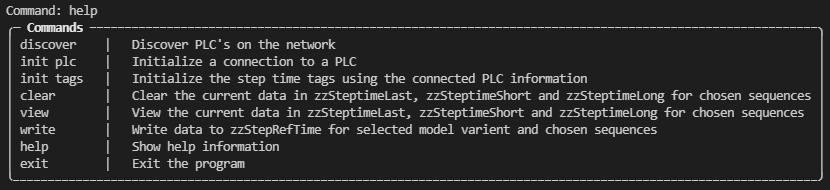
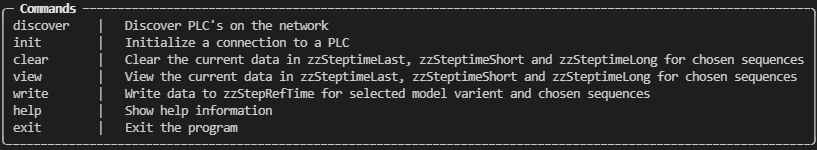
Major changes most notably combining init plc and init tags into just init

Changed region(s): [[0.0, 0.0267, 1.0, 0.9867]]

diff --git a/stepTimeDistributor.py b/stepTimeDistributor.py
@@ -14,41 +14,14 @@ from rich.panel import Panel
 #------------------------------------------------------------------------#
 
 sequences, seqTags = {}, {}
-plcInitOK = False
 inputCommands = {
     "discover": "Discover PLC's on the network",
-    "init plc": "Initialize a connection to a PLC", 
-    "init tags": "Initialize the step time tags using the connected PLC information",
+    "init": "Initialize a connection to a PLC", 
     "clear": "Clear the current data in zzSteptimeLast, zzSteptimeShort and zzSteptimeLong for chosen sequences",
     "view": "View the current data in zzSteptimeLast, zzSteptimeShort and zzSteptimeLong for chosen sequences",
     "write": "Write data to zzStepRefTime for selected model varient and chosen sequences",
     "help": "Show help information", 
     "exit": "Exit the program"}
-ipRegex = re.compile(r'''
-    (\d{1,3}\.){3}\d{1,3}$ # IPv4
-    | ([0-9abcdef]{4}:){7}[0-9abcdef]{4}$ # IPv6
-    | ^cancel$ # Cancel the operation
-    ''', re.VERBOSE|re.I)
-slotRegex = re.compile(r'''
-    \d+$ # Any digit
-    | ^cancel$ # Cancel the operation
-    ''', re.VERBOSE|re.I)
-typeRegex = re.compile(r'''
-	\d{1,2}$ # 1 or 2 digits only
-	| ^cancel$ # Cancel the operation
-	''', re.VERBOSE|re.I)
-writeRegex = re.compile(r'''
-    ^last$ # Write zzSteptimeLast values
-    | ^long$ # Write zzSteptimeLong values
-    | ^short$ # Write zzSteptimeShort values
-    | ^cancel$ # Cancel operation
-    ''', re.VERBOSE|re.I)
-applyRegex = re.compile(r'''
-    ^none$ # User doesn't want to apply any addition time
-    | ^percentage$ # Apply a percentage of the time, variable time
-    | ^time$ # Apply a fixed time 
-    | ^cancel$ # Cancel operation
-    ''', re.VERBOSE|re.I)
 
 #------------------------------------------------------------------------#
 
@@ -75,32 +48,75 @@ def extractSequences(seqDict, userInput): # Function to extract sequence numbers
     return seqs
 
 def discoverPLCs(): # Function to discover any PLC on the network
-    plcs = []
+    ips, slots, progName = [], [], []
     try:
         discovery = CIPDriver.discover() # Return list of all CIP devices on the network
         for device in discovery: # Go through discovery list and append any PLC#'s to a list
             if device['product_type'] == "Programmable Logic Controller":
-                plcs.append(device['ip_address'])        
-        if len(plcs) > 0: # Print the discovered PLC's, if there are any
-            plcs.sort() # Sort the IP address in ascending order
+                ips.append(device['ip_address'])        
+        if len(ips) > 0: # Print the discovered PLC's, if there are any
+            ips.sort() # Sort the IP address in ascending order
             table = Table(box=box.ROUNDED) # Create table 
-            table.add_column('No.', justify='center') # Add column
+            table.add_column('#', justify='center') # Add column
             table.add_column('Device Type', justify='center') # Add column
             table.add_column('IP Address', justify='center') # Add column
-            for i, plc in enumerate(plcs): # Add row for each PLC discovered
-                table.add_row(str(i+1), 'Programmable Logic Controller', plc)
+            table.add_column('Slot #', justify='center') # Add column
+            table.add_column('Program Name', justify='center') # Add column
+            for i, ip in enumerate(ips): # Add row for each PLC discovered
+                slots.append('Unknown')
+                progName.append('Unknown')
+                for slot in range(1, 18):
+                    try:
+                        plc = LogixDriver(f'{plc}/{str(slot)}', init_tags=False)
+                        if plc.open():
+                            slots[i] = slot
+                            progName[i] = plc.get_plc_name()
+                            plc.close()
+                            break
+                    except:
+                        continue
+                table.add_row(str(i+1), 'Programmable Logic Controller', ip, str(slots[i]), progName[i])
             print(table)
         else:
             print("No PLC's discovered on the network")
     except Exception:
         traceback.print_exc()
 
-def initPLC(ip, slot): # Funtion to initialize a connection to a PLC and retrive data from it
-    seqs = {}
-    initOK = False
+def init(): # Funtion to initialize a connection to a PLC and retrive data from it
+    seqs, tags = {}, {}
+    ipOK, slotOK = False, False
+    ipRegex = re.compile(r'''
+    (\d{1,3}\.){3}\d{1,3}$ # IPv4
+    | ([0-9abcdef]{4}:){7}[0-9abcdef]{4}$ # IPv6
+    | ^cancel$ # Cancel the operation
+    ''', re.VERBOSE|re.I)
+    slotRegex = re.compile(r'''
+    \d+$ # Any digit
+    | ^cancel$ # Cancel the operation
+    ''', re.VERBOSE|re.I)
+    while ipOK == False:
+        ip = re.match(ipRegex, input("PLC IP Address: ").strip()) # Request the PLC IP address and check it is the correct format
+        if ip: # IP address format OK
+            if ip.group().lower() == 'cancel':
+                print('Operation cancelled\n')
+                return None, seqs, tags
+            else:
+                ipOK = True # IP Address OK, allow user to enter slot
+        else: # IP address format not OK
+            print('Format of IP address was incorrect')
+    while slotOK == False:
+        slot = re.match(slotRegex, input("Rack slot: ").strip()) # Request the rack slot number
+        if slot: # Slot format OK
+            if slot.group().lower() == 'cancel':
+                print('Operation cancelled\n')
+                return None, seqs, tags
+            else:
+                slotOK = True
+        else: # Slot format not OK
+            print('Format of slot was incorrect')
     try:
-        print(f"Initializing connection to {ip}/{str(slot)}")
-        plc = LogixDriver(f"{ip}/{str(slot)}", init_tags=True, init_program_tags=True) # Set up the LogixDriver for the stated PLC. This is returned to be used within other functions
+        print(f"Initializing connection to {ip.group()}/{str(slot.group())}")
+        plc = LogixDriver(f"{ip.group()}/{str(slot.group())}", init_tags=True, init_program_tags=True) # Set up the LogixDriver for the stated PLC. This is returned to be used within other functions
         if plc.open(): # Open the connection to the PLC and read data from it
             print("Connection to PLC established")
             plcInfo = plc.info # Write the PLC info to a variable
@@ -112,46 +128,31 @@ def initPLC(ip, slot): # Funtion to initialize a connection to a PLC and retrive
                 if mo1 != None:
                     mo2 = re.search(r'\d\d', mo1.group()) # Search for the digits in the matched object and use them as keys in the sequences dictionary
                     seqs.setdefault(mo2.group(), prog) # Assign the key (sequence number) and value (program name) to the sequences dictionary
+            seqs = keySortDict(seqs) # Sort the sequence dictionary based on sequence number (keys)
             plcInfo.update({'revision':f"Major : {str(plcInfo['revision']['major'])} / Minor : {str(plcInfo['revision']['minor'])}"})
             table = Table(box=box.ROUNDED) # Create a table
             table.add_column('PLC Information', justify='left') # Add column
             table.add_column('Sequences', justify='left') # Add column
             textInfo = '\n'.join(f"{k.capitalize().replace('_', ' ').ljust(15)} |   {v}" for k, v in plcInfo.items()) # Combine the PLC information into one string
-            textSeq = '\n'.join(f"{k} - {v}" for k, v in keySortDict(seqs).items()) # Combine the PLC sequences into one string
+            textSeq = '\n'.join(f"{k} - {v}" for k, v in seqs.items()) # Combine the PLC sequences into one string
             table.add_row(textInfo, textSeq) # Add row
             print(table)
+            for k, v in seqs.items(): # Loop for each sequence selected by the user
+                maxStep = plc.read(f"zzSeq[{k}].MaxStepNo").value
+                tags.setdefault(k, 
+                    [f"zzSeq[{k}].MaxStepNo", 
+                    f"Program:{v}.zzSteptimeLast[1]{{{maxStep}}}", 
+                    f"Program:{v}.zzSteptimeLong[1]{{{maxStep}}}",
+                    f"Program:{v}.zzSteptimeShort[1]{{{maxStep}}}",
+                    f"Program:{v}.zzStepRefTime[xxTypexx,1]{{{maxStep}}}"]) # Add the sequence tags to the dictionary of tags
+                print(f"Initialized step tags for sequence {k}: {v}, max step = {str(maxStep)}")
             plc.close()
-            initOK = True
         else:
             print('Failed to establish connection to PLC')
     except Exception:
         plc.close()
         traceback.print_exc()
-    return plc, initOK, keySortDict(seqs) # Return the LogixDriver and a key sorted dictionary of sequence programs in the connected PLC
-
-def initTags(plc, sequences, selSeq): # Funtion to create all the step data tags required to read from and write to the PLC
-    tags = {}
-    seqs = extractSequences(sequences, selSeq)
-    for seq in seqs: # Loop for each sequence selected by the user
-        maxStep = 99 # Max step initially set to 99
-        try: # Read the max step for the specified sequence
-            if seq in list(sequences.keys()): # Check the sequence is in the list of PLC sequences
-                plc.open()
-                maxStep = plc.read(f"zzSeq[{seq}].MaxStepNo")
-                tags.setdefault(seq, 
-                    [f"zzSeq[{seq}].MaxStepNo", 
-                    f"Program:{sequences[seq]}.zzSteptimeLast[1]{{{maxStep.value}}}", 
-                    f"Program:{sequences[seq]}.zzSteptimeLong[1]{{{maxStep.value}}}",
-                    f"Program:{sequences[seq]}.zzSteptimeShort[1]{{{maxStep.value}}}",
-                    f"Program:{sequences[seq]}.zzStepRefTime[xxTypexx,1]{{{maxStep.value}}}"]) # Add the sequence tags to the dictionary of tags
-                print(f"Initialized step tags for sequence {seq}: {sequences[seq]}, max step = {str(maxStep)}")
-                plc.close()
-            else:
-                print(f"Sequence {seq} does not exist in the PLC")
-        except Exception:
-            plc.close()
-            traceback.print_exc()     
-    return tags # Return the tags to be used within other functions
+    return plc, seqs, tags # Return the LogixDriver and a key sorted dictionary of sequence programs in the connected PLC
 
 def clear(plc, tags, selSeq): # Function to clear the current data within the PLC of the step time tags
     seqs = extractSequences(tags, selSeq)
@@ -219,6 +220,22 @@ def view(plc, sequences, tags, selSeq): # Function to display the last, longest 
 def write(plc, tags, selSeq): # Function to write data to the step refrence time tag in the PLC
     seqs = extractSequences(tags, selSeq)
     llsOK, addTimeOK, typeOK = False, False, False
+    typeRegex = re.compile(r'''
+	\d{1,2}$ # 1 or 2 digits only
+	| ^cancel$ # Cancel the operation
+	''', re.VERBOSE|re.I)
+    writeRegex = re.compile(r'''
+    ^last$ # Write zzSteptimeLast values
+    | ^long$ # Write zzSteptimeLong values
+    | ^short$ # Write zzSteptimeShort values
+    | ^cancel$ # Cancel operation
+    ''', re.VERBOSE|re.I)
+    applyRegex = re.compile(r'''
+    ^none$ # User doesn't want to apply any addition time
+    | ^percentage$ # Apply a percentage of the time, variable time
+    | ^time$ # Apply a fixed time 
+    | ^cancel$ # Cancel operation
+    ''', re.VERBOSE|re.I)
     table = Table(box=box.ROUNDED)
     table.add_column('STEP', justify='center')
     while llsOK == False:
@@ -315,40 +332,8 @@ if __name__ == "__main__":
         # Once a command is recieved, compare it to the avaible commands and run the asscoiated code
         if command == "discover": # DISCOVER - Search the network for ALL CIP devices and return only the PLC's
             discoverPLCs() 
-        elif command == "init plc": # INIT PLC - Initialize a connection to the specified PLC and return/display data from it
-            ipOK, slotOK = False, False
-            while ipOK == False:
-                ip = re.match(ipRegex, input("PLC IP Address: ").strip()) # Request the PLC IP address and check it is the correct format
-                if ip: # IP address format OK
-                    if ip.group().lower() == 'cancel':
-                        print('Operation cancelled\n')
-                    else:
-                        ipOK = True # IP Address OK, allow user to enter slot
-                else: # IP address format not OK
-                    print('Format of IP address was incorrect')
-            while slotOK == False:
-                slot = re.match(slotRegex, input("Rack slot: ").strip()) # Request the rack slot number
-                if slot: # Slot format OK
-                    if slot.group().lower() == 'cancel':
-                        print('Operation cancelled\n')
-                    else:
-                        slotOK = True
-                        plc, plcInitOK, sequences = initPLC(ip.group(), slot.group()) # Initialize the connection to the PLC
-                else: # Slot format not OK
-                    print('Format of slot was incorrect')
-        elif command == "init tags": # INIT TAGS - Create the step tags for each sequence discovered in the PLC
-            if plcInitOK == True:
-                print("Choose the sequences you want to initialize the step time tags for. E.g. 1 2 4 7 or ALL or cancel to exit")
-                print(f"PLC Sequences: {' '.join(list(sequences.keys()))}") # Display avaiable sequences 
-                selectedSeq = input('Sequence: ').strip().lower() # User input
-                if selectedSeq == 'cancel' or selectedSeq == '': # If cancel or blank then dont run initTags
-                    print('Operation cancelled or no sequences chosen')
-                else:
-                    if selectedSeq != 'all':
-                        selectedSeq = re.sub(r'\D+', ' ', selectedSeq) # Remove unwanted characters from string
-                    seqTags.update(initTags(plc, sequences, selectedSeq.strip())) # Initialize tags for selected sequences 
-            else:
-                print('A PLC connection has not been initialized yet. Use \'init plc\'')
+        elif command == "init": # INIT - Initialize a connection to the specified PLC and return/display data from it
+            plc, sequences, seqTags = init() # Initialize the connection to the PLC
         elif command == "clear": # CLEAR - Writes zeros to the step time tags for the selected sequences
             if len(seqTags) > 0:
                 print("Choose the sequences you want to clear the step time data for. E.g. 1 2 4 7 or ALL or cancel to exit")

diff --git a/README.md b/README.md
@@ -1,13 +1,10 @@
 # Step Time Distributor
 ## Introduction
----
 This tool allows the user to easily read and write the step reference times to the PLC for DCP based projects on Rockwell PLC's.
 
 ## Installation
----
+TODO
 
-## User Guide
----
 ## Commands
 There is a selection of commands to execute different fuctions. These commands should be displayed on startup. Although, if your memory need refreshing then type **help**.
 
@@ -15,39 +12,21 @@ There is a selection of commands to execute different fuctions. These commands s
     <img src="./images/showCommands.png" alt="Help output">
 </p>
 
-## Discover
+### Discover
 The **discover** command will scan the netowrk for devices. If any PLC's are found they are returned to the user. The backplane slot position of the PLC cannot be discovered.
 
 <p align="center">
     <img src="./images/discoverCmd.png" alt="Discover output">
 </p>
 
-## Init PLC
-The **init plc** command will initialize a connection to the PLC the user enters. The user will be prompted to enter the IP address (e.g. 137.4.0.11) and slot number (e.g. 2). Upon a successful connection, information retrived from the PLC will be displayed.
+### Init 
+The **init** command will initialize a connection to the PLC the user enters. The user will be prompted to enter the IP address (e.g. 137.4.0.11) and slot number (e.g. 2). Upon a successful connection, information retrived from the PLC will be displayed. The command will create the variables that are used to read and write to the PLC tags. The user has two input methods when deciding which sequences they want to create the variables for.This variable creation will only create enough tags to match the maximum step number for there respective sequences.
 
 <p align="center">
-    <img src="./images/initPLCCmd.png" alt="Init PLC output">
+    <img src="./images/initCmd.png" alt="Init PLC output">
 </p>
 
-## Init Tags
-The **init tags** command will create the variables that are used to read and write to the PLC tags. The user has two input methods when deciding which sequences they want to create the variables for.
-
-1. Specify the sequence numbers. e.g. 1 4 6 7 10
-2. Use **all** to create tags for all sequences
-
-This variable creation will only create enough tags to match the maximum step number for there respective sequences.
-
-<p align="center">
-    <img src="./images/initTagsIndiCmd.png" alt="Init tags individually output">
-</p>
-
-Or
-
-<p align="center">
-    <img src="./images/initTagsAllCmd.png" alt="Init tags all output">
-</p>
-
-## Clear
+### Clear
 The **clear** commmand allows the user to select the sequences where they want to clear the current data. As standard the PLC tags that are cleared are zzSteptimeLast, zzSteptimeShort and zzSteptimeLong. However, there is a prompt that allows the user to also clear zzStepRefTime tags. The tags are only cleard up to the maximum step number. Like **init tags** the user has two inputs methods for choosing the sequences where the data should be cleared.
 
 1. Specify the sequence numbers. e.g. 1 4 6 7 10
@@ -63,7 +42,7 @@ Or
     <img src="./images/clearAllCmd.png" alt="Clear all output">
 </p>
 
-## View
+### View
 The **view** command will display the current data in the PLC for variables zzSteptimeLast, zzSteptimeShort, zzSteptimeLong and zzStepRefTime, for the sequence the user specifies. Data will only be displayed up the the maximum step number for the respective sequence. Like **init tags** and **clear** the user has two inputs methods for choosing the sequences where the data should be cleared.
 
 1. Specify the sequence numbers. e.g. 1 4 6 7 10
@@ -73,7 +52,7 @@ The **view** command will display the current data in the PLC for variables zzSt
     <img src="./images/viewCmd.png" alt="View output">
 </p>
 
-## Write
+### Write
 The **write** command allows the user to copy data from either zzSteptimeLast, zzSteptimeShort or zzSteptimeLong to zzStepRefTime for the sequences the user specifies. Like **init tags**, **clear** and **view** the users has two methods of specifiying the sequence to be written to.
 
 1. Specify the sequence numbers. e.g. 1 4 6 7 10
@@ -97,12 +76,10 @@ Or
     <img src="./images/writeShortTimeCmd.png" alt="Write short time output">
 </p>
 
-## Contributing
----
+### Contributing
 Pull requests are welcome. For major changes, please open an issue first to discuss what you would like to change.
 
 If you encounter problems when using the tool, please raise an issue [here](https://github.com/slowMelon01/stepTimeDistributor/issues), along with the log file, which you'll find in the folder ...
 
 ## License
----
 Currently no licence.

diff --git a/TODO.md b/TODO.md
@@ -6,20 +6,18 @@ Bugs
 ***
 Essential
 ---------
-* #15 Add funtion to reset session that clears all the current data retrived from the PLC  
-    * Clear logixdriver  
-    * Clear tags  
-* #24 Allow user to write step reference times to multiple types
-* #27 Combine **init plc** and **init tags** to just **init**. This will initialize tags for all sequences. Less user input required.
+
 ***
 Non-essential
 -------------
+* #24 Allow user to write step reference times to multiple types
 * #25 Make use of logging to help with debugging
 ***
 To Be Tested
 ------------
 * #23 User can not input 'all' anymore as any non-digits get replaced by spaces
 * #22 Modifiy clear funtion to allow the user to clear the step reference times as well
+* #27 Combine **init plc** and **init tags** to just **init**. This will initialize tags for all sequences. Less user input required.
 ***
 Completed
 ---------
@@ -60,3 +58,7 @@ Discarded
     * Not possible as the info doesn't say which task the program belongs to
 * #16 Before exiting session use the reset function to clear the current data retrived from the PLC
     * Not needed
+* #15 Add funtion to reset session that clears all the current data retrived from the PLC  
+    * Clear logixdriver  
+    * Clear tags
+        * Not needed as user can just 'init' new plc to start again. This overwirtes the exising logixDriver and created tags.  
